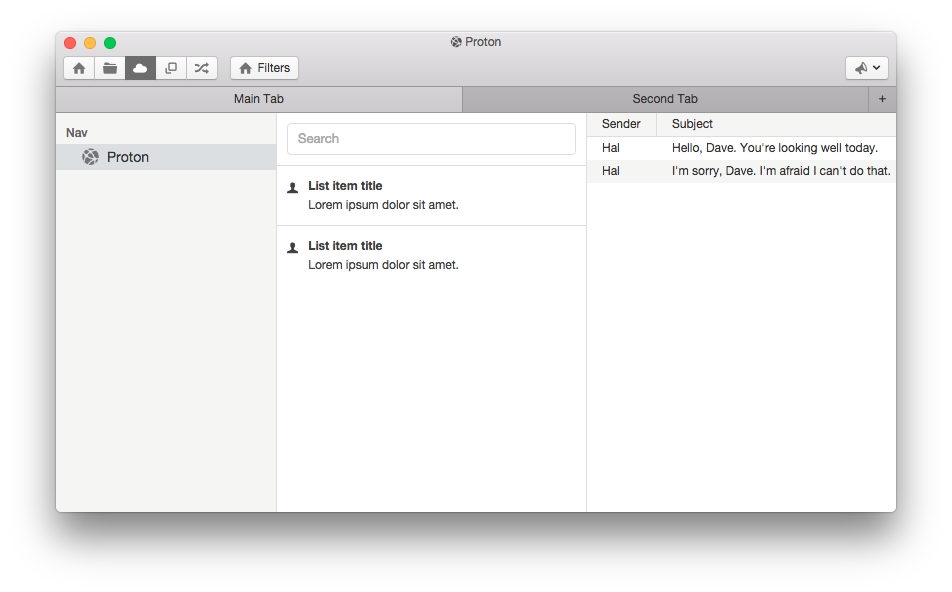
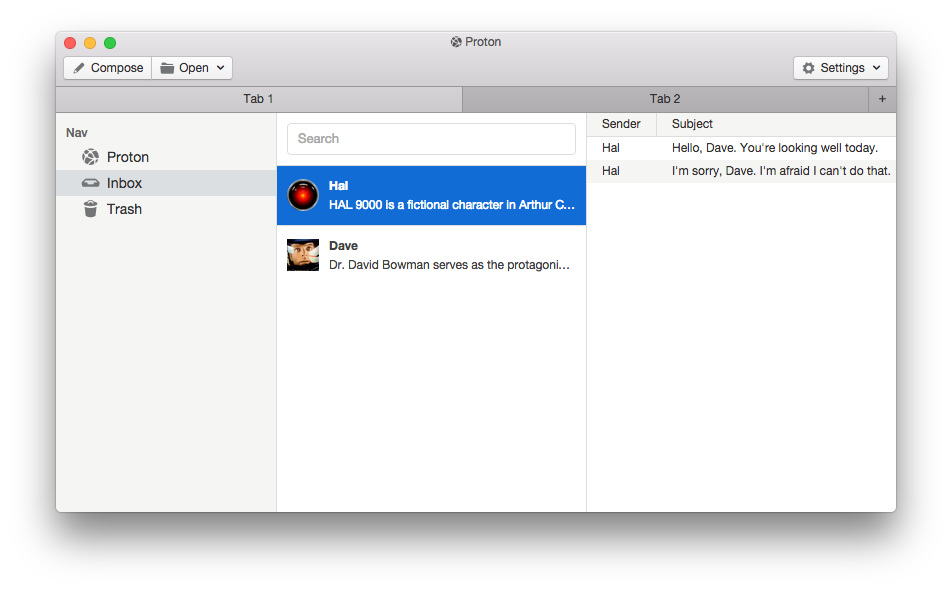
:cat2: foolin

diff --git a/src/index.html b/src/index.html
@@ -14,29 +14,18 @@
     <div class="toolbar-actions">
       <div class="btn-group">
         <button class="btn btn-default">
-          <span class="icon icon-home"></span>
+          <span class="icon icon-pencil icon-text"></span>
+          Compose
         </button>
-        <button class="btn btn-default">
-          <span class="icon icon-folder"></span>
-        </button>
-        <button class="btn btn-default active">
-          <span class="icon icon-cloud"></span>
-        </button>
-        <button class="btn btn-default">
-          <span class="icon icon-popup"></span>
-        </button>
-        <button class="btn btn-default">
-          <span class="icon icon-shuffle"></span>
+        <button class="btn btn-default btn-dropdown">
+          <span class="icon icon-folder icon-text"></span>
+          Open
         </button>
       </div>
 
-      <button class="btn btn-default">
-        <span class="icon icon-home icon-text"></span>
-        Filters
-      </button>
-
       <button class="btn btn-default btn-dropdown pull-right">
-        <span class="icon icon-megaphone"></span>
+        <span class="icon icon-cog icon-text"></span>
+        Settings
       </button>
     </div>
   </header>
@@ -44,11 +33,11 @@
   <div class="tab-group">
     <div class="tab-item active">
       <span class="icon icon-cancel icon-close-tab"></span>
-      Main Tab
+      Tab 1
     </div>
     <div class="tab-item">
       <span class="icon icon-cancel icon-close-tab"></span>
-      Second Tab
+      Tab 2
     </div>
     <div class="tab-item tab-item-fixed">
       <span class="icon icon-plus"></span>
@@ -61,9 +50,17 @@
       <div class="pane pane-sm sidebar">
         <nav class="nav-group">
           <h5 class="nav-group-title">Nav</h5>
-          <span class="nav-group-item active">
+          <span class="nav-group-item">
             <span class="icon icon-network"></span>
             Proton
+          </span>
+          <span class="nav-group-item active">
+            <span class="icon icon-inbox"></span>
+            Inbox
+          </span>
+          <span class="nav-group-item">
+            <span class="icon icon-trash"></span>
+            Trash
           </span>
         </nav>
       </div>
@@ -73,18 +70,18 @@
           <li class="list-group-header">
             <input class="form-control" type="text" placeholder="Search">
           </li>
-          <li class="list-group-item" contextable>
-            <span class="icon icon-user media-object pull-left" width="32" height="32"></span>
+          <li class="list-group-item active" contextable>
+            <img class="media-object pull-left" src="http://www.adiumxtras.com/images/pictures/hal_9000_revisited_1_36472_8100_image_12577.png" width="32" height="32">
             <div class="media-body">
-              <strong>List item title</strong>
-              <p>Lorem ipsum dolor sit amet.</p>
+              <strong>Hal</strong>
+              <p>HAL 9000 is a fictional character in Arthur C. Clarke's Space Odyssey series.</p>
             </div>
           </li>
           <li class="list-group-item" contextable>
-            <span class="icon icon-user media-object pull-left" width="32" height="32"></span>
+            <img class="media-object pull-left" src="https://31.media.tumblr.com/avatar_5d9c61491fcc_128.png" width="32" height="32">
             <div class="media-body">
-              <strong>List item title</strong>
-              <p>Lorem ipsum dolor sit amet.</p>
+              <strong>Dave</strong>
+              <p>Dr. David Bowman serves as the protagonist of 2001: A Space Odyssey.</p>
             </div>
           </li>
         </ul>

diff --git a/src/js/context-menu.js b/src/js/context-menu.js
@@ -8,7 +8,7 @@ var menu = new Menu()
 
 menu.append(new MenuItem({
   label: 'Alert Dialog',
-  click: function () {
+  click: function (item, focusedWindow) {
     window.alert('This is an alert!')
   }
 }))
@@ -16,8 +16,8 @@ menu.append(new MenuItem({
 menu.append(new MenuItem({ type: 'separator' }))
 menu.append(new MenuItem({
   label: 'Console Log',
-  click: function () {
-    console.log('context menu event', arguments)
+  click: function (item, focusedWindow) {
+    console.log('context menu event', item, focusedWindow)
   }
 }))
 menu.append(new MenuItem({
